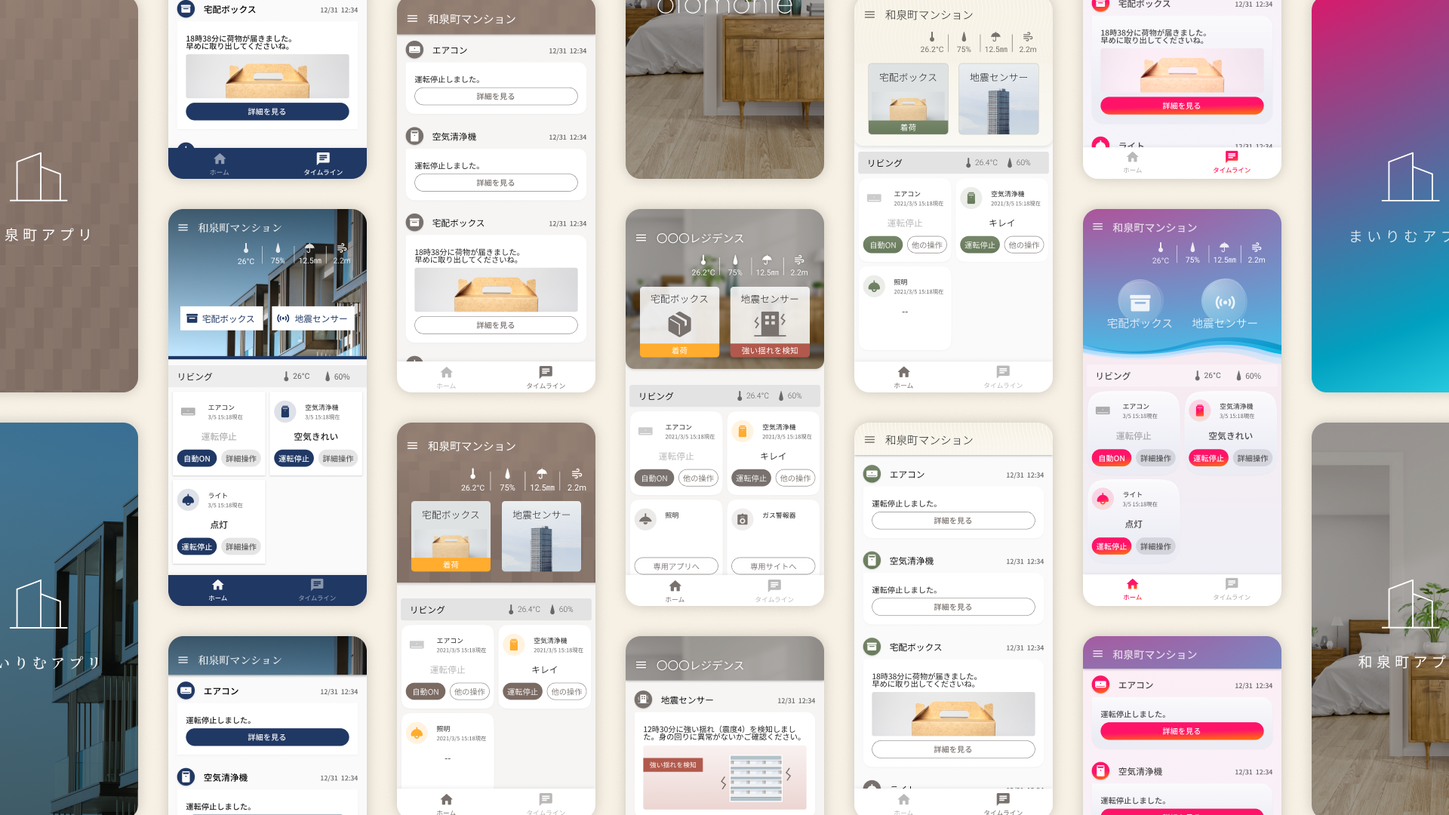
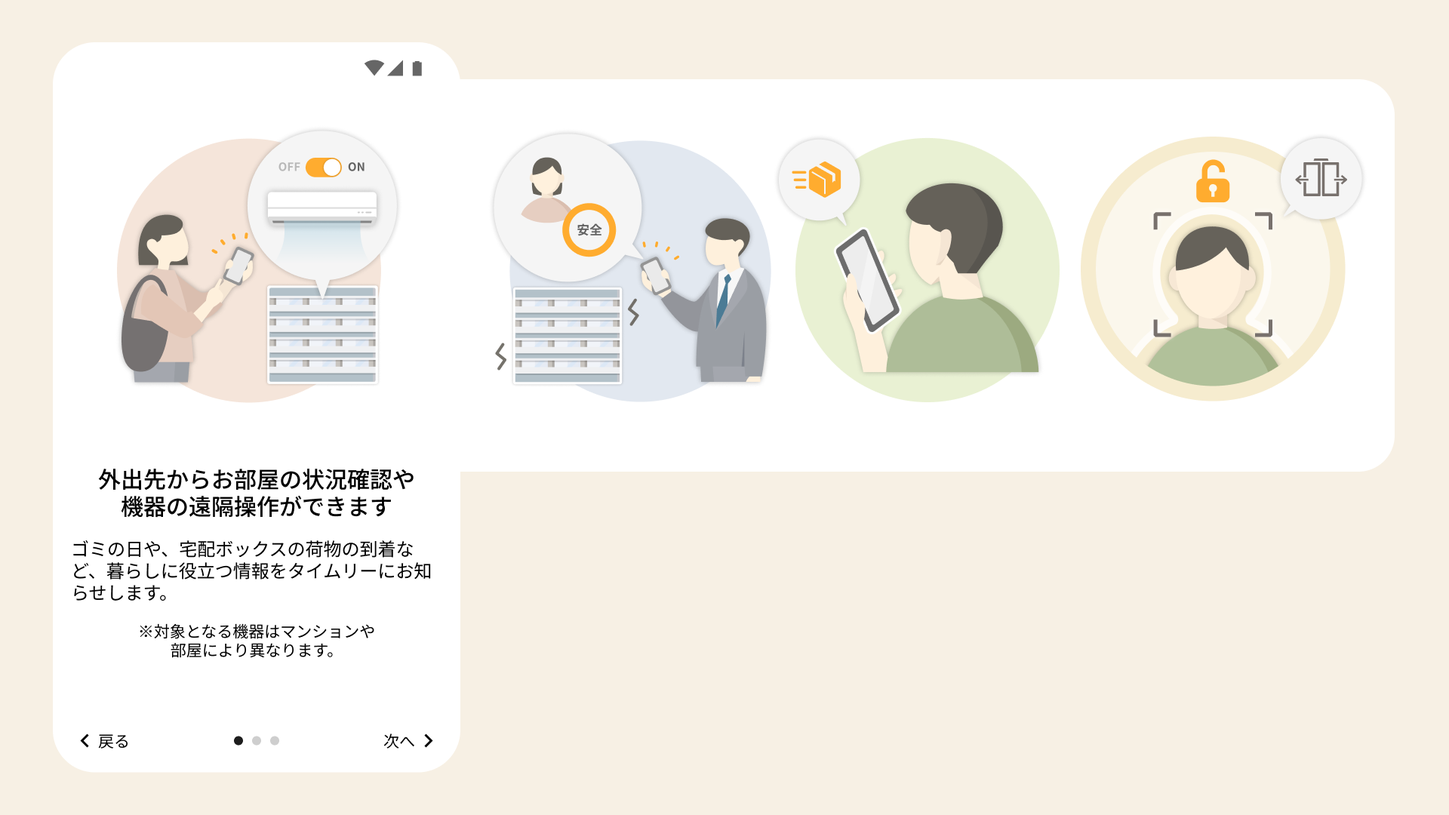
作品詳細にPOINT OF VIEWと関連作品レイアウトを反映
- POINT OF VIEWセクションを追加（グレー角丸パネル / Figma node 391-2064）
- 関連作品を横2列グリッドに変更（Figma node 391-2201）、タップでFigmaを開く
- cocoro-home-ai / new-cocoro-home のmd内容をmockに同期

diff --git a/work-detail-mock.html b/work-detail-mock.html
@@ -209,6 +209,12 @@
 
   .s-overview{font-size:15px;line-height:1.5;color:var(--meta);margin:0}
 
+  /* POINT OF VIEW — Figma node 391:2064 */
+  .pov-block{background:#f3f3f3;border-radius:8px;padding:20px 16px 16px;display:flex;flex-direction:column;gap:8px}
+  .pov-block + .pov-block{margin-top:16px}
+  .pov-h{font-size:20px;font-weight:700;line-height:1.3;color:#000;margin:0;word-break:break-word}
+  .pov-p{font-size:14px;line-height:1.65;color:#000;margin:0}
+
   .design-block,.process-block{margin-bottom:24px}
   .design-block:last-child,.process-block:last-child{margin-bottom:0}
   .design-h{font-size:22px;font-weight:600;letter-spacing:-.005em;line-height:1.3;color:var(--ink);margin:0 0 8px}
@@ -225,11 +231,11 @@
 
   .s-divider{height:1px;background:#e0e0e0;margin:0 0 40px}
 
-  .related-list{display:flex;flex-direction:column;gap:16px}
-  .related-item{cursor:pointer;user-select:none}
-  .related-thumb{width:100%;height:96px;background:var(--ph);border-radius:4px;overflow:hidden;margin-bottom:8px}
+  .related-list{display:flex;gap:16px;align-items:flex-start}
+  .related-item{flex:1 1 0;min-width:0;display:flex;flex-direction:column;gap:6px;cursor:pointer;user-select:none}
+  .related-thumb{width:100%;height:96px;background:var(--ph);border-radius:8px;overflow:hidden}
   .related-thumb svg,.related-thumb img{width:100%;height:100%;display:block;object-fit:cover}
-  .related-title{font-size:20px;line-height:1;letter-spacing:-.008em;color:var(--ink)}
+  .related-title{font-size:14px;line-height:1;letter-spacing:-.02em;color:#000;padding:0 4px;word-break:break-word}
 
   .swipe-hint{
     position:absolute;left:50%;bottom:14px;transform:translateX(-50%);
@@ -298,6 +304,9 @@
 
 <script>
 /* ============== DATA ============== */
+/* 関連作品タップ時に開く遷移先（Figma） */
+const RELATED_URL = "https://www.figma.com/design/yEwsj3HeWuCuUNImuNn4NZ/Claude-Labo?node-id=391-2201&t=DWbERQAb0yM1LCn0-1";
+
 const WORKS = [
   {
     title:"COCORO HOME AI",
@@ -305,17 +314,16 @@ const WORKS = [
     ext:"jpg",
     tags:["UIデザイン","IoT家電アプリ","生成AI"],
     period:"2026.01 ~ 06",
-    overview:"IoT家電アプリ「COCORO HOME」に、家電に関する悩みを生成AIで解決するアシスタント機能のUIをデザインしました。対応機種の取扱説明書やFAQを学習し、シャープの一次情報にもとづいて的確に回答。登録済みの家電型番を参照し、該当する取説ページも画像で提示することで、「調べて終わり」にしない体験を目指しました。",
+    overview:"IoT家電アプリ「COCORO HOME」における、生成AIで家電の悩みを解決するアシスタント機能のUIデザインを担当しました。対応機種の取扱説明書やFAQを学習し、シャープの一次情報にもとづいて的確に回答。登録済みの家電型番を参照し、該当する取説ページを画像で提示したり、回答内容に即した設定UIを提示し、その場で機器を操作することで「調べて終わり」にしない体験が実現できました。",
+    pov:[
+      {heading:"「困ってから」ではなく、「もっと良く」を引き出すAIへ",body:"家電の相談は、エラーやトラブルが起きて「困ってから」に偏りがちです。COCORO HOME AIでは、洗濯物を上手に洗いたい・ふわふわに仕上げたいといった「もっと良く」使いたいという前向きな相談も引き出したいと考えました。そのため、ユーザーのやりたいこと優先で控えめに答えるのではなく、「こんなこともできますよ」と積極的に「やれること」を提案するふるまいを軸に据え、家電を楽しく快適に使い続けてもらうことを目指しました。"},
+    ],
     design:[
-      {heading:"質問サジェストで、AIとの会話を後押し。",body:"家電の相談は故障やエラーなど「困ってから」に偏りがち。トップに質問事例を並べ「こんなことも聞ける」と気づける入り口にしました。事例は開くたびに変わり、一次情報にもとづく回答には「シャープ公式回答」バッジを添えて信頼感を持たせています。",img:"02.jpg"},
-      {heading:"背景アニメーションで、AIの知性と寄り添いを表現。",body:"彩度の高いピンクとオレンジの円形グラデーションを、豊かな暮らしのイメージとして全画面に敷きました。思考中は横移動、書き出しは拡大縮小、話者交代は右への移動と、AIの状態を有機的な動きで伝え、画面全体で呼応する感覚を目指しました。",img:"03.jpg"},
-      {heading:"回答から、そのまま家電を操作できる。",body:"食材の保存方法などの回答には、対応する冷凍モードの設定ボタンを表示。確認モーダルと送信完了フィードバックまで設計し、「調べる」で終わらず「操作する」までを会話の中で完結させました。",img:"04.jpg"},
-      {heading:"アコーディオンで、初見の情報量をコントロール。",body:"モードの詳細説明はアコーディオンに畳み、気になる人だけが開いて読める形に。会話画面の文章量をコンパクトに保ち、あとから会話を遡るときも追いやすくしました。",img:"05.jpg"},
+      {heading:"質問サジェストで、AIとの会話を後押し",body:"家電の相談は「困ってから」に偏りがちですが、生成AIなら使い方や活用法まで幅広く答えられます。そこでCOCORO HOME AIでは、トップに質問事例を並べ、「こんな質問にも答えられる」と気づけるタッチポイントを設けました。事例は開くたびに変わるようにし、家電をより能動的に使いこなすきっかけになるようにしました。さらに、一次情報にもとづく回答には「シャープ公式回答」バッジを添え、気づきだけでなく安心して踏み出せる後押しになるよう工夫しました。",img:"02.jpg"},
+      {heading:"背景アニメーションで、AIの知性と寄り添いを表現",body:"彩度の高いピンクとオレンジの円形グラデーションを、豊かな暮らしのイメージとして背景に敷き、知性的で最先端な機能であることも印象づけました。思考中は横移動、書き出しは拡大縮小、話者交代は右への移動と、AIの状態を有機的な動きで伝えることで、待たされている感覚ではなく寄り添われている安心感を持ちながら、AIとの対話を心地よく続けられる体験を目指しました。",img:"03.jpg"},
+      {heading:"会話の流れを止めず、家電の操作までスムーズに完結",body:"食材の保存方法などの回答には、対応する冷凍モードの設定ボタンを表示。確認モーダルと送信完了フィードバックまで設計し、「調べる」で終わらず「操作する」までを会話の中で完結させました。モードの詳細説明はアコーディオンに畳み、気になる人だけが開いて読める形にすることで、会話画面の文章量もコンパクトに保ちました。",img:"04.jpg"},
     ],
-    process:[
-      {heading:"「困ってから」だけでなく「もっと良く」も引き出す。",body:"エラーやトラブルの「事後」だけでなく、上手に洗いたい・ふわふわに仕上げたいといった「事前」の前向きな相談も想定。幅広く家事について問い合わせられる関係性を、サジェストの切り口から設計しました。"},
-      {heading:"「控えめ」ではなく「提案する」AIとして。",body:"他社の対話AIがユーザーのやりたいこと優先の控えめな立ち位置なのに対し、COCORO HOME AIは「やれること」を積極的に訴求。家電を楽しく快適に使い続けてもらうことをゴールに、提案型のふるまいを軸に据えました。",},
-    ],
+    process:[],
     outcome:[],
     hue:350,
   },
@@ -325,10 +333,13 @@ const WORKS = [
     tags:["UIデザイン","IoT家電アプリ","情報設計"],
     period:"2025.10 ~ 2026.03",
     overview:"IoT家電アプリ「COCORO HOME」の主要機能を統合した新しい「トップ画面」のUIをデザインしました。リリースから歳月を重ねることで累積した多様な機能とサービスを整理し、再び使いやすいUIにリデザインしました。",
+    pov:[
+      {heading:"増え続ける家電を、迷わず選べる土台へ",body:"本プロジェクトは、機器リストの改善からスタートしました。将来的なMatter対応で接続台数の増加が見込まれる一方、家電ごとに不揃いな情報量やココロピンクの過度な利用で画面は見づらくなっていました。そこで個々の機能を足すのではなく、情報量と配色のルールを揃えて一望性を取り戻し、台数が増えても破綻しない「増えても選びやすい」トップ画面を核に据えることを出発点としました。"},
+    ],
     design:[
       {heading:"家電カードUIを再設計し、選びやすく。",body:"入り乱れた機能をTOP画面に再レイアウトし、家電のカードUIをリデザイン。ユーザーがぱっと見で操作したい家電を選べ、より素早く積極的に利用できるカタチを提案しました。",img:"02.png"},
       {heading:"必要な情報が、埋もれない通知設計へ。",body:"タイムライン画面から家電のお知らせだけをフィルタリングした通知バーをレイアウト。家電ごとにバラバラだった情報量を統一し、必要な情報が埋もれないようにしました。",img:"03.png"},
-      {heading:"家電未登録の状態にも、ワクワク感を。",body:"家電が未登録の状態も無機質にせず、つないだ後の期待感が伝わるイラストを配置。使い始める前からポジティブな体験を演出しました。"},
+      {heading:"家電アイコン可愛くしたよ",body:"家電が未登録の状態も無機質にせず、つないだ後の期待感が伝わるイラストを配置。使い始める前からポジティブな体験を演出しました。"},
     ],
     process:[],
     outcome:[],
@@ -502,6 +513,13 @@ window.addEventListener('resize',measure);
 function sectionImg(slug,hue,seed,img){
   return img ? `<img src="works/images/${slug}/${img}" alt="">` : thumbSvg(hue,seed);
 }
+function povHtml(sections){
+  return sections.map(s=>`
+    <div class="design-block">
+      <h3 class="design-h">${s.heading}</h3>
+      <p class="block-p">${s.body}</p>
+    </div>`).join('');
+}
 function designHtml(sections,seed,hue,slug){
   return sections.map((s,j)=>`
     <div class="design-block">
@@ -516,6 +534,13 @@ function processHtml(sections,seed,hue,slug){
       <h3 class="process-h">${s.heading}</h3>
       ${s.img?`<div class="sec-img">${sectionImg(slug,hue,seed+j+4,s.img)}</div>`:''}
       <p class="block-p">${s.body}</p>
+    </div>`).join('');
+}
+function povHtml(items){
+  return items.map(s=>`
+    <div class="pov-block">
+      <h3 class="pov-h">${s.heading}</h3>
+      <p class="pov-p">${s.body}</p>
     </div>`).join('');
 }
 function outcomeHtml(items){
@@ -550,6 +575,12 @@ function slideHtml(w,i){
       <p class="s-overview">${w.overview}</p>
     </div>
 
+    ${w.pov&&w.pov.length?`
+    <div class="s-section">
+      <p class="section-label">POINT OF VIEW</p>
+      ${povHtml(w.pov)}
+    </div>`:''}
+
     ${w.design.length?`
     <div class="s-section">
       <p class="section-label">DESIGN</p>
@@ -579,7 +610,7 @@ function slideHtml(w,i){
 function buildSlides(){
   track.innerHTML = WORKS.map((w,i)=>`<section class="slide" data-i="${i}">${slideHtml(w,i)}</section>`).join('');
   track.querySelectorAll('.related-item').forEach(el=>{
-    el.addEventListener('click',()=>setIndex(parseInt(el.dataset.jump,10)));
+    el.addEventListener('click',()=>window.open(RELATED_URL,'_blank','noopener'));
   });
 }
 buildSlides();

diff --git a/archive/index.html b/archive/index.html
@@ -4,9 +4,86 @@
 <meta charset="UTF-8">
 <meta name="viewport" content="width=device-width, initial-scale=1.0">
 <title>Portfolio Wireframes — Index</title>
+
+<!-- ============================================================
+     GREETING SPLASH
+     調整可能な値は :root の変数に集約。詳細は splash-handoff.md 参照。
+     ============================================================ -->
+<style>
+  :root {
+    --splash-bg: #fff;            /* サイトの初期背景(--bg)と揃えている */
+    --splash-ink: #1f2430;        /* 見出し文字色 */
+    --wave-duration: 2.1s;        /* 手を振る速さ */
+    --wave-delay: .55s;           /* 見出しが出てから振り始めるまでの"間" */
+    --rise-duration: .6s;         /* 見出しがふわっと現れる速さ */
+    --fade-duration: .5s;         /* スプラッシュが消えるフェード速さ */
+    --ease-out: cubic-bezier(.22,.61,.36,1);
+  }
+
+  html.is-loading, html.is-loading body { overflow: hidden; }
+
+  .splash {
+    position: fixed;
+    inset: 0;
+    display: grid;
+    place-content: center;
+    background: var(--splash-bg);
+    z-index: 9999;
+    transition: opacity var(--fade-duration) var(--ease-out),
+                visibility var(--fade-duration) var(--ease-out);
+  }
+  .splash.is-dismissed { opacity: 0; visibility: hidden; }
+
+  .splash__greeting {
+    display: flex;
+    align-items: center;
+    gap: 12px;
+    font-family: "Hiragino Sans", "Yu Gothic", system-ui, sans-serif;
+    font-size: clamp(30px, 8vw, 52px);
+    font-weight: 600;
+    letter-spacing: -0.01em;
+    color: var(--splash-ink);
+    opacity: 0;
+    transform: translateY(8px);
+    animation: splash-rise var(--rise-duration) var(--ease-out) forwards;
+  }
+
+  .splash__hand {
+    display: inline-block;
+    transform-origin: 75% 80%;
+    animation: splash-wave var(--wave-duration) var(--ease-out) var(--wave-delay) 1 both;
+  }
+
+  @keyframes splash-rise {
+    to { opacity: 1; transform: translateY(0); }
+  }
+
+  @keyframes splash-wave {
+    0%   { transform: rotate(0deg); }
+    12%  { transform: rotate(14deg); }
+    32%  { transform: rotate(-9deg); }
+    52%  { transform: rotate(12deg); }
+    72%  { transform: rotate(-15deg); }
+    100% { transform: rotate(0deg); }
+  }
+
+  @media (prefers-reduced-motion: reduce) {
+    .splash__greeting { animation: none; opacity: 1; transform: none; }
+    .splash__hand { animation: none; }
+  }
+</style>
+<noscript><style>.splash{ display:none !important; }</style></noscript>
+
 <link rel="stylesheet" href="styles.css">
 </head>
 <body>
+
+<div class="splash" id="splash" role="status" aria-live="polite">
+  <div class="splash__greeting">
+    <span>こんにちは</span>
+    <span class="splash__hand" aria-hidden="true">👋</span>
+  </div>
+</div>
 
 <header class="site-nav">
   <a class="brand" href="index.html">◼ Wireframes</a>
@@ -51,6 +128,47 @@
     <span><a href="wireframes.html">全体を1画面で比較する →</a></span>
   </div>
 </main>
+
+<script>
+  (function () {
+    var html = document.documentElement;
+    var splash = document.getElementById('splash');
+    if (!splash) return;
+
+    html.classList.add('is-loading');
+
+    var dismissed = false;
+    function dismiss() {
+      if (dismissed) return;
+      dismissed = true;
+      splash.classList.add('is-dismissed');
+      html.classList.remove('is-loading');
+      splash.addEventListener('transitionend', function () {
+        if (splash.parentNode) splash.parentNode.removeChild(splash);
+      }, { once: true });
+    }
+
+    // 初回訪問のみ最低 1.2s 見せる(挨拶が一瞬すぎて見えない問題への対応)。
+    // 再訪時は sessionStorage を見て即座に消す
+    var MIN = sessionStorage.getItem('seen-hi') ? 0 : 1200;
+    var startedAt = Date.now();
+    function dismissRespectingMin() {
+      var wait = Math.max(0, MIN - (Date.now() - startedAt));
+      setTimeout(function () {
+        dismiss();
+        sessionStorage.setItem('seen-hi', '1');
+      }, wait);
+    }
+
+    if (document.readyState === 'complete') {
+      dismissRespectingMin();
+    } else {
+      window.addEventListener('load', dismissRespectingMin);
+    }
+
+    setTimeout(dismiss, 5000);
+  })();
+</script>
 
 </body>
 </html>

diff --git a/works/cocoro-home-ai.md b/works/cocoro-home-ai.md
@@ -9,37 +9,31 @@
 
 ## OVERVIEW
 
-IoT家電アプリ「COCORO HOME」に、家電に関する悩みを生成AIで解決するアシスタント機能のUIをデザインしました。対応機種の取扱説明書やFAQを学習し、シャープの一次情報にもとづいて的確に回答。登録済みの家電型番を参照し、該当する取説ページも画像で提示することで、「調べて終わり」にしない体験を目指しました。
+IoT家電アプリ「COCORO HOME」における、生成AIで家電の悩みを解決するアシスタント機能のUIデザインを担当しました。
+対応機種の取扱説明書やFAQを学習し、シャープの一次情報にもとづいて的確に回答。登録済みの家電型番を参照し、該当する取説ページを画像で提示したり、回答内容に即した設定UIを提示し、その場で機器を操作することで「調べて終わり」にしない体験が実現できました。
+
+## POINT OF VIEW
+
+### 「困ってから」ではなく、「もっと良く」を引き出すAIへ
+家電の相談は、エラーやトラブルが起きて「困ってから」に偏りがちです。COCORO HOME AIでは、洗濯物を上手に洗いたい・ふわふわに仕上げたいといった「もっと良く」使いたいという前向きな相談も引き出したいと考えました。そのため、ユーザーのやりたいこと優先で控えめに答えるのではなく、「こんなこともできますよ」と積極的に「やれること」を提案するふるまいを軸に据え、家電を楽しく快適に使い続けてもらうことを目指しました。
+
 
 ## DESIGN
 
-### 質問サジェストで、AIとの会話を後押し。
-家電の相談は故障やエラーなど「困ってから」に偏りがち。トップに質問事例を並べ「こんなことも聞ける」と気づける入り口にしました。事例は開くたびに変わり、一次情報にもとづく回答には「シャープ公式回答」バッジを添えて信頼感を持たせています。
+### 質問サジェストで、AIとの会話を後押し
+家電の相談は「困ってから」に偏りがちですが、生成AIなら使い方や活用法まで幅広く答えられます。そこでCOCORO HOME AIでは、トップに質問事例を並べ、「こんな質問にも答えられる」と気づけるタッチポイントを設けました。事例は開くたびに変わるようにし、家電をより能動的に使いこなすきっかけになるようにしました。さらに、一次情報にもとづく回答には「シャープ公式回答」バッジを添え、気づきだけでなく安心して踏み出せる後押しになるよう工夫しました。
 
 ![](./images/cocoro-home-ai/02.jpg)
 
-### 背景アニメーションで、AIの知性と寄り添いを表現。
-彩度の高いピンクとオレンジの円形グラデーションを、豊かな暮らしのイメージとして全画面に敷きました。思考中は横移動、書き出しは拡大縮小、話者交代は右への移動と、AIの状態を有機的な動きで伝え、画面全体で呼応する感覚を目指しました。
+### 背景アニメーションで、AIの知性と寄り添いを表現
+彩度の高いピンクとオレンジの円形グラデーションを、豊かな暮らしのイメージとして背景に敷き、知性的で最先端な機能であることも印象づけました。思考中は横移動、書き出しは拡大縮小、話者交代は右への移動と、AIの状態を有機的な動きで伝えることで、待たされている感覚ではなく寄り添われている安心感を持ちながら、AIとの対話を心地よく続けられる体験を目指しました。
 
 ![](./images/cocoro-home-ai/03.jpg)
 
-### 回答から、そのまま家電を操作できる。
-食材の保存方法などの回答には、対応する冷凍モードの設定ボタンを表示。確認モーダルと送信完了フィードバックまで設計し、「調べる」で終わらず「操作する」までを会話の中で完結させました。
+### 会話の流れを止めず、家電の操作までスムーズに完結
+食材の保存方法などの回答には、対応する冷凍モードの設定ボタンを表示。確認モーダルと送信完了フィードバックまで設計し、「調べる」で終わらず「操作する」までを会話の中で完結させました。モードの詳細説明はアコーディオンに畳み、気になる人だけが開いて読める形にすることで、会話画面の文章量もコンパクトに保ちました。
 
 ![](./images/cocoro-home-ai/04.jpg)
-
-### アコーディオンで、初見の情報量をコントロール。
-モードの詳細説明はアコーディオンに畳み、気になる人だけが開いて読める形に。会話画面の文章量をコンパクトに保ち、あとから会話を遡るときも追いやすくしました。
-
-![](./images/cocoro-home-ai/05.jpg)
-
-## PROCESS
-
-### 「困ってから」だけでなく「もっと良く」も引き出す。
-エラーやトラブルの「事後」だけでなく、上手に洗いたい・ふわふわに仕上げたいといった「事前」の前向きな相談も想定。幅広く家事について問い合わせられる関係性を、サジェストの切り口から設計しました。
-
-### 「控えめ」ではなく「提案する」AIとして。
-他社の対話AIがユーザーのやりたいこと優先の控えめな立ち位置なのに対し、COCORO HOME AIは「やれること」を積極的に訴求。家電を楽しく快適に使い続けてもらうことをゴールに、提案型のふるまいを軸に据えました。
 
 ## 関連作品
 

diff --git a/works/otomonie.md b/works/otomonie.md
@@ -5,33 +5,42 @@
 | ヒーローイメージ | ![](./images/otomonie/01.png) |
 | タイトル | otomonie UIディレクション |
 | 期間 | 2021.06 ~ 08 |
-| タグ | UIディレクション / IoT / 提案 |
+| タグ | UIディレクション / IoT家電アプリ / 提案 |
 
 ## OVERVIEW
 
-マンション専用IoTアプリ「otomonie」にて、UIデザインの方向性検討からクライアントへのプレゼンテーションまでを担当。自宅の家電の遠隔操作や、宅配ボックスの荷物確認、マンションからのお知らせ確認など、暮らしに寄り添う機能を備えたアプリです。
+長谷工株式会社様のマンション専用IoTアプリ「otomonie」のUIデザインのディレクションとクライアントコミュニケーションを担当しました。
+otomonieは、自宅の家電の遠隔操作や、宅配ボックスの荷物確認、マンションからのお知らせ確認など、暮らしに寄り添う機能を備えたアプリです。
+デザインメンバーが参画したタイミングでは、アプリのデザインイメージが明確に描けていませんでした。デザインテイストを幅広く提案してクライアントと一緒に絞り込んでいくことで、納得感のあるデザインに決定することができました。
+
+
 
 ## DESIGN
 
-### 第二の居住空間のような、あたたかいアプリへ。
-単身者からファミリーまで幅広いユーザーを想定し、「第二の居住空間」のようなアプリをデザイン。透明感ある実写の室内イメージで、シンプルながら温かみのある印象を目指しました。
+### 第二の居住空間のような、あたたかいアプリ
+単身者からファミリーまで幅広いユーザーを想定し、「第二の居住空間」のようなアプリをデザインしました。透明感ある実写の室内イメージで、シンプルながら温かみのある印象を目指しました。
 
 ![](./images/otomonie/02.png)
 
 ### 部屋のモノ感を、大きなアイコンで表現。
 豊富なイラストと「部屋のモノ感」のある大きなアイコンボタンを採用。プライマリーカラーのオレンジで、暮らしに陽気なイメージをプラスしました。
 
+![](./images/otomonie/03.png)
+
+
 ## PROCESS
 
 ### 中立案を軸に、振れ幅のある提案を。
 H社へのOEM製品開発として進行したこのプロジェクトでは、クライアントの中でアプリのデザインイメージが明確に固まっていないという課題がありました。そこで中立な案を軸に、シックな案とユニークな案へ振り切って提案し、2回にわたり計6案を提示しました。
 
-![](./images/otomonie/03.png)
+![](./images/otomonie/04.png)
 
 ### 居住空間のイメージごと、選べるように。
 アプリと共に居住空間のイメージも膨らませ、マンションのビジョンに最も合う案を選べるように工夫。クライアントと一緒に絞り込み、納得感のあるデザインへ収束させました。
 
-![](./images/otomonie/04.png)
+![](./images/otomonie/05.png)
+![](./images/otomonie/06.png)
+
 
 ## OUTCOME
 
